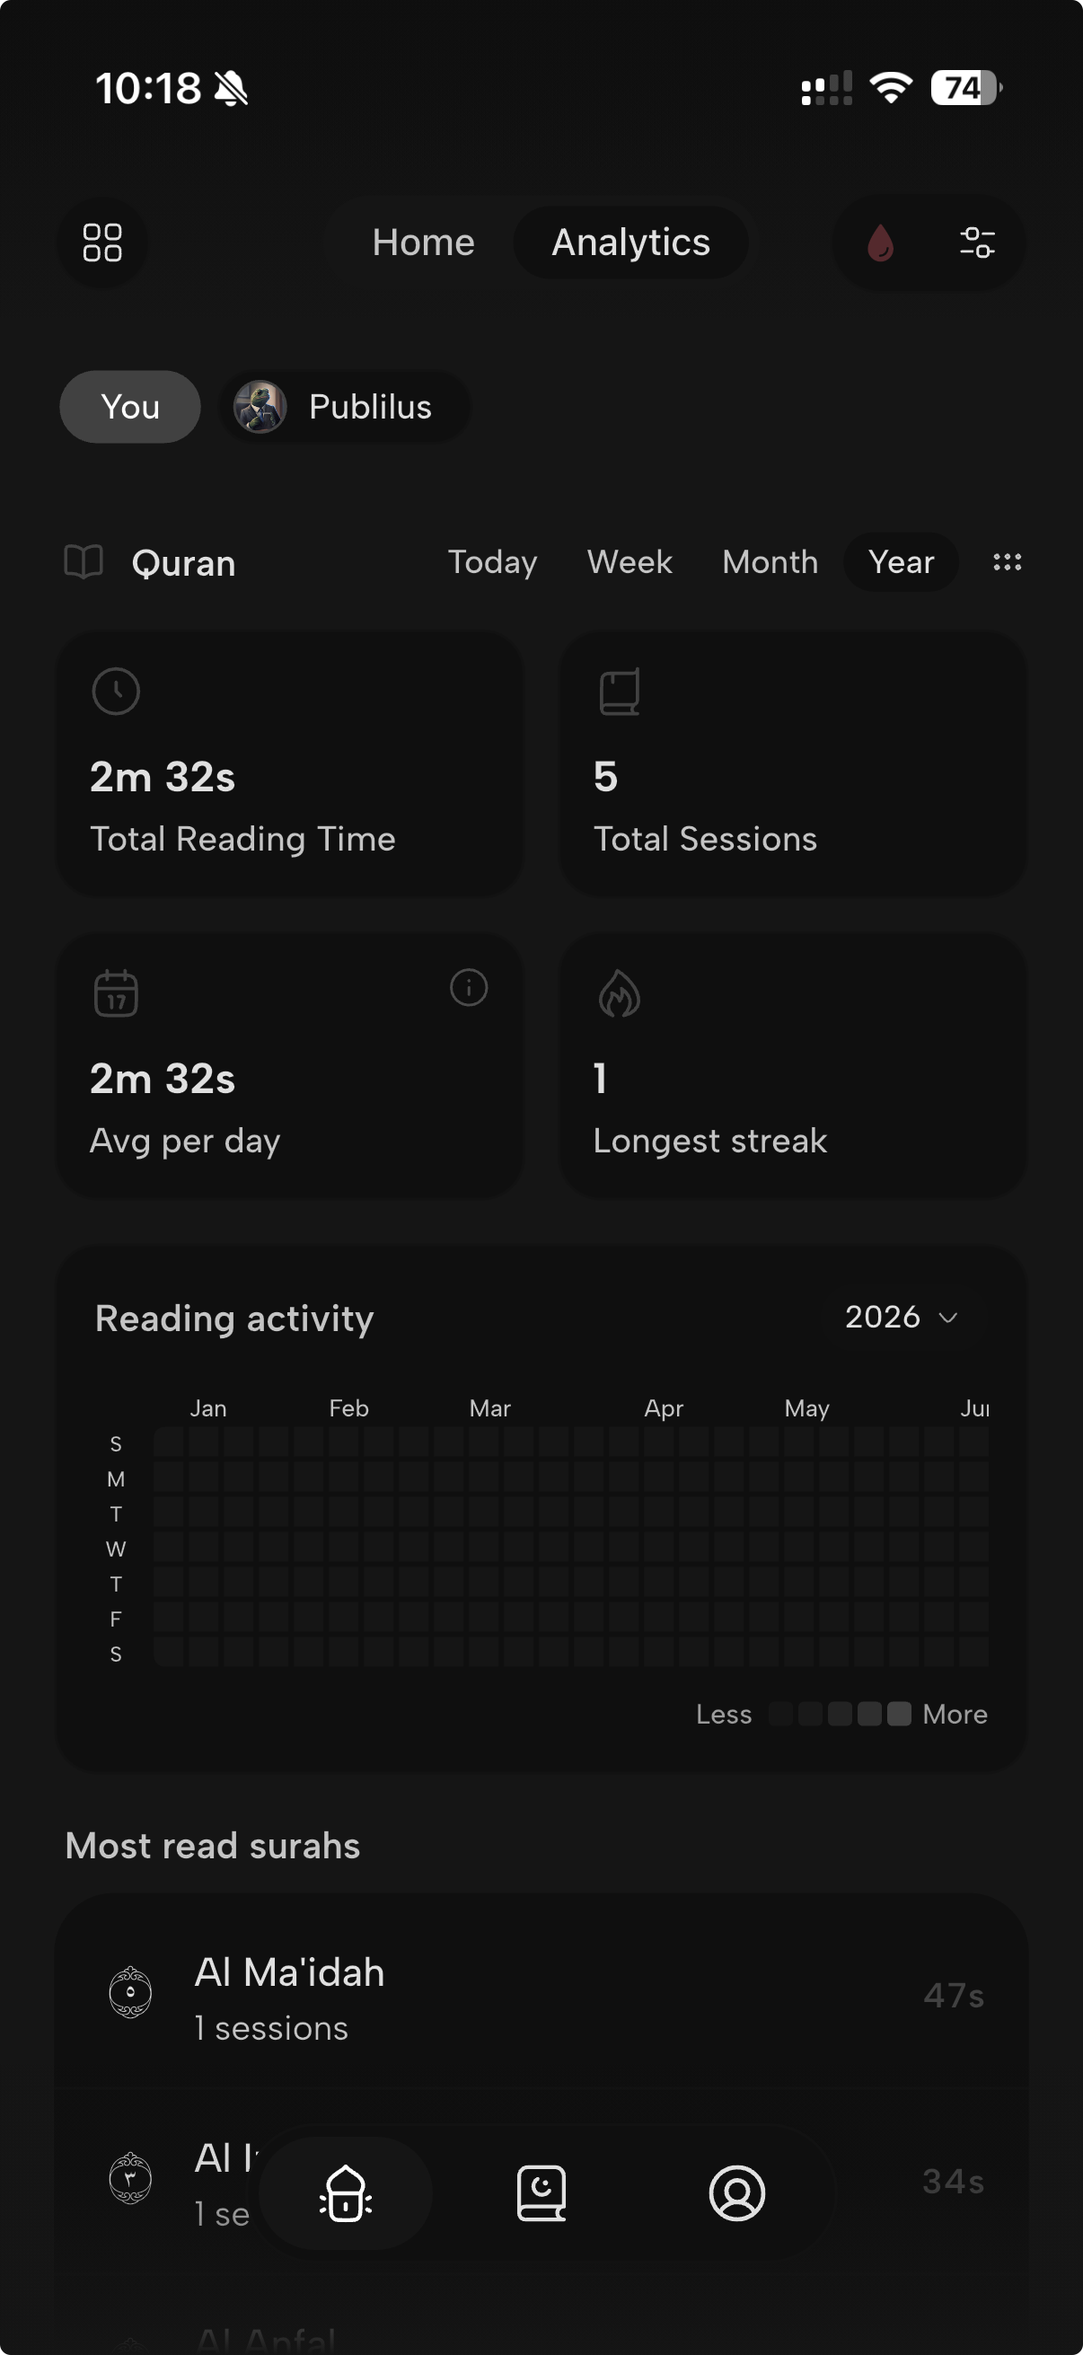
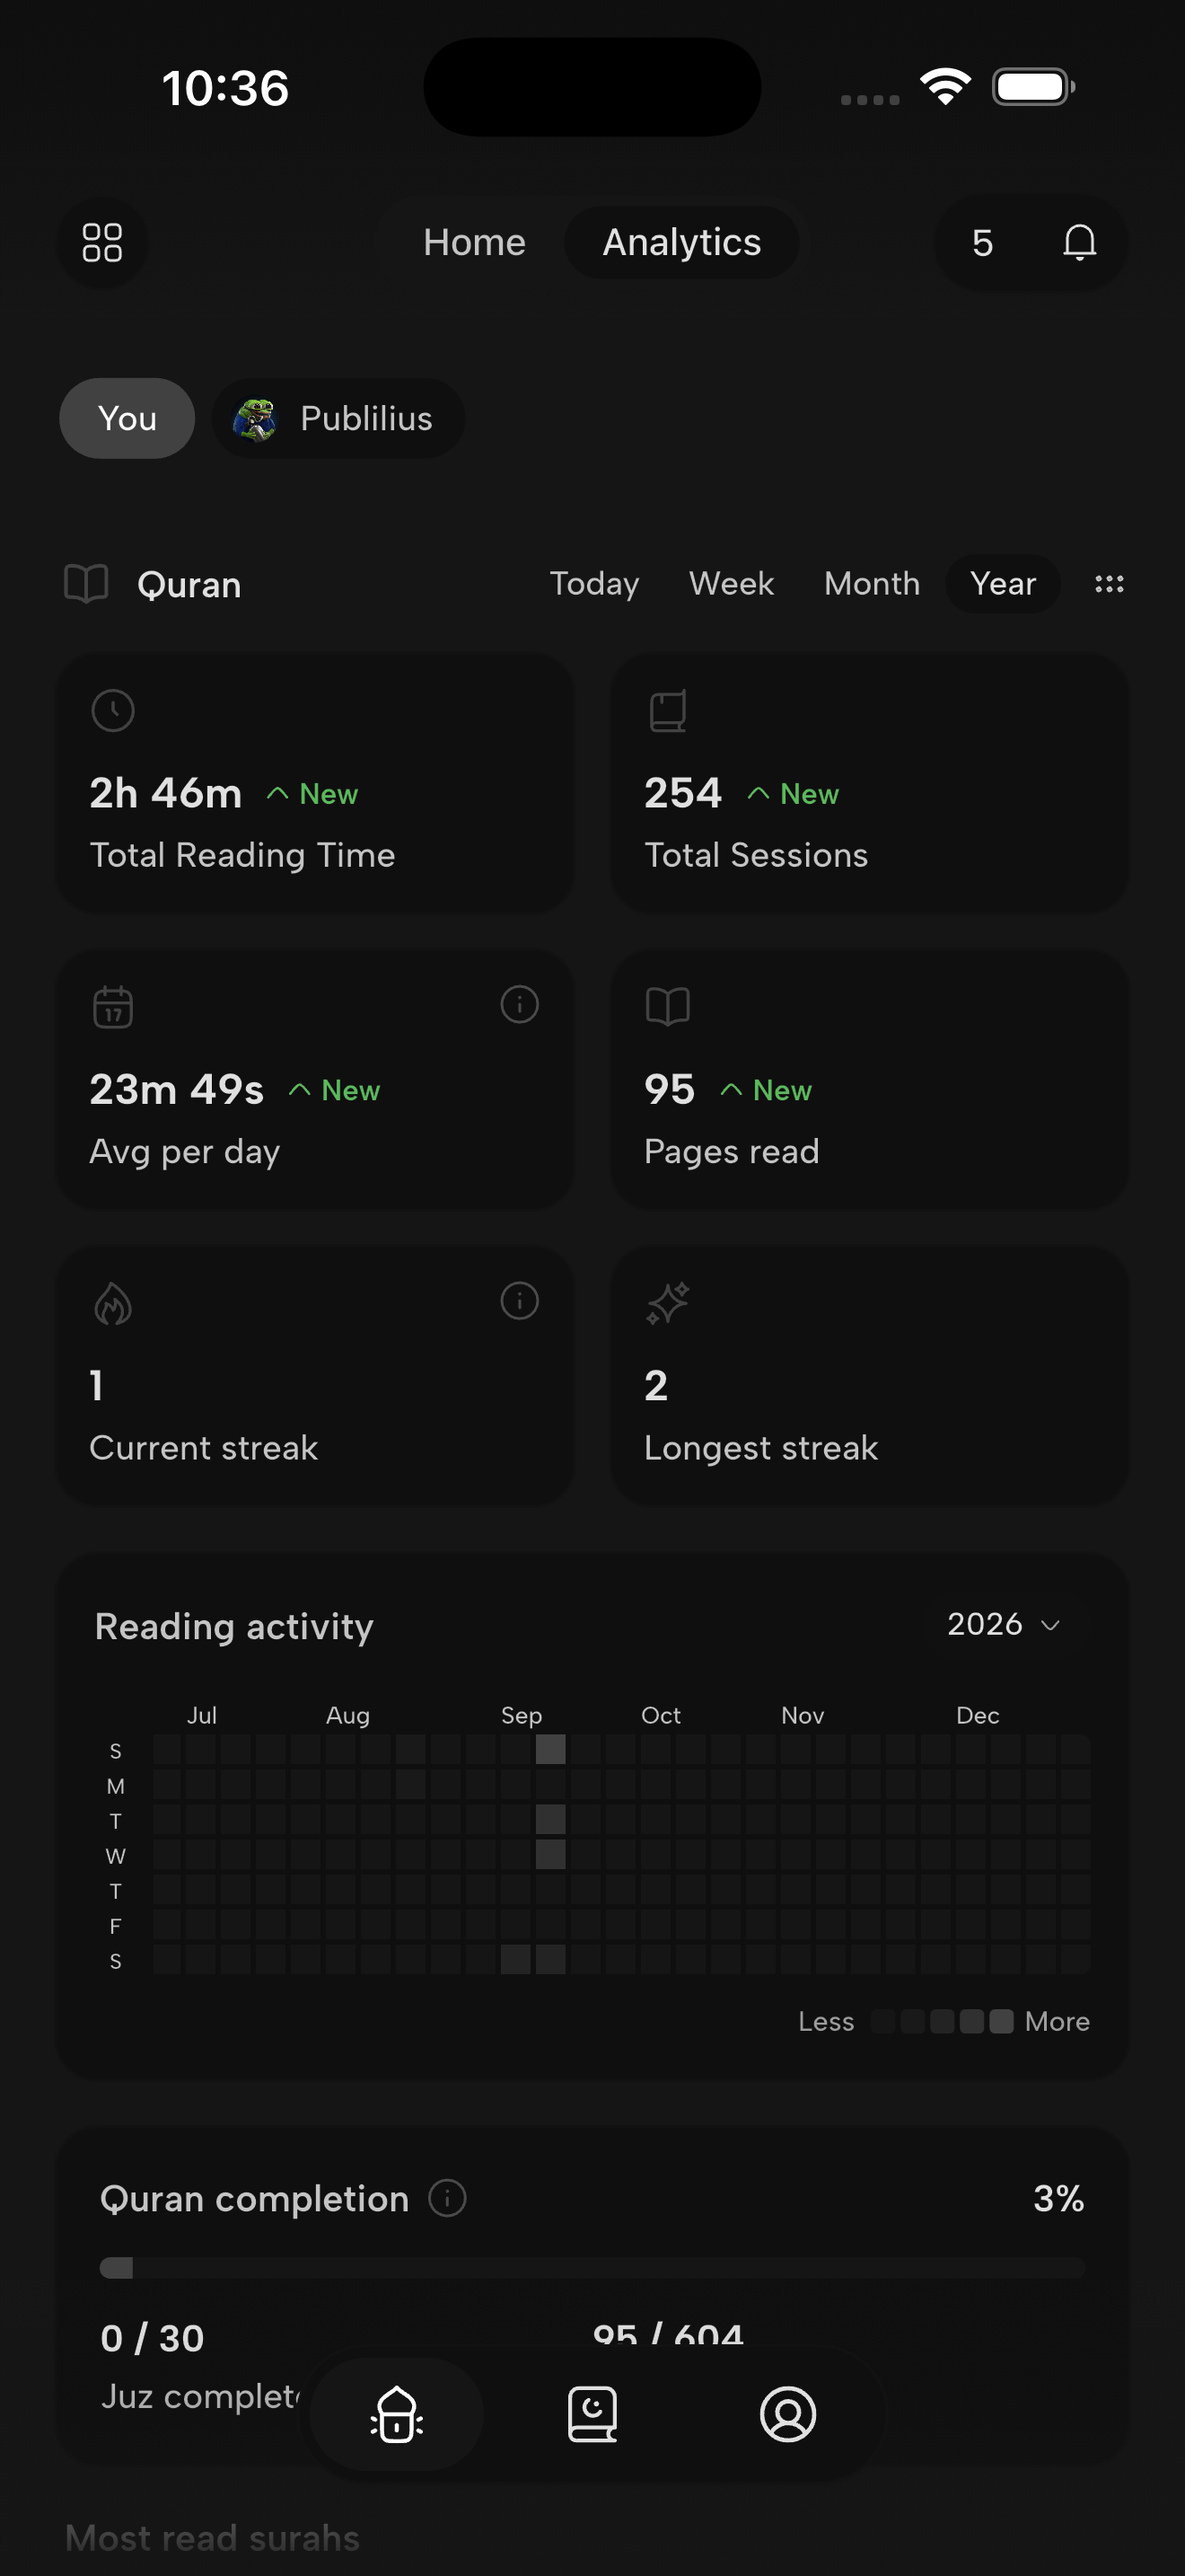
update screenshot images

diff --git a/src/components/Testimonials.tsx b/src/components/Testimonials.tsx
@@ -1,28 +1,29 @@
+import { useTheme } from '../lib/theme-context'
+
 const TESTIMONIALS = [
   {
     name: 'Aisyah R.',
     role: 'Kuala Lumpur, MY',
     quote:
-      'The prayer arc on the home screen is genius — I always know exactly how much time is left for the next salah at a glance.',
-    avatar: 'https://i.pravatar.cc/80?img=47',
+      'The prayer times are exact — Qawwam uses the official JAKIM timetable for my area, so every salah starts to the minute. It is the most reliable app I have used.',
   },
   {
     name: 'Muhammad F.',
     role: 'Singapore, SG',
     quote:
       'Linking with my siblings changed everything. We poke each other when one of us misses a prayer, and sharing our progress keeps us accountable.',
-    avatar: 'https://i.pravatar.cc/80?img=68',
   },
   {
     name: 'Nurul H.',
     role: 'Jakarta, ID',
     quote:
-      'I use the tasbih and daily duas every single day. Having everything — prayers, Qur\'an, duas — in one clean app is a blessing.',
-    avatar: 'https://i.pravatar.cc/80?img=45',
+      'The Qur\'an reader is stunning — tajweed colouring, translation and recitation in one place, and I can jump to any ayah just by reciting it.',
   },
 ]
 
 export function Testimonials() {
+  const { theme } = useTheme()
+
   return (
     <section id="testimonials" className="scroll-mt-24 py-20 sm:py-24">
       <div className="mx-auto max-w-6xl px-5">
@@ -53,10 +54,10 @@ export function Testimonials() {
               </blockquote>
               <figcaption className="mt-6 flex items-center gap-3 border-t border-border pt-5 dark:border-dark-border">
                 <img
-                  src={t.avatar}
+                  src={`/icons/${theme}-default-pfp.png`}
                   alt={`${t.name} avatar`}
                   loading="lazy"
-                  className="h-10 w-10 rounded-full object-cover ring-2 ring-primary/20"
+                  className="h-10 w-10 rounded-full object-cover"
                 />
                 <div>
                   <p className="text-sm font-bold">{t.name}</p>

diff --git a/src/components/ScreenshotShowcase.tsx b/src/components/ScreenshotShowcase.tsx
@@ -2,13 +2,20 @@ import { PhoneFrame } from "./PhoneFrame";
 
 const SCREENSHOTS = [
   { name: "home", label: "Home" },
-  { name: "account_link", label: "Linked Accounts" },
-  { name: "account_link_analytic", label: "Shared Insights" },
+  { name: "prayer_guide", label: "Prayer Guide" },
   { name: "quran_1", label: "Qur'an" },
   { name: "quran_2", label: "Qur'an reader" },
-  { name: "qiblat", label: "Qiblat" },
+  { name: "quran_voice_search", label: "Voice Search" },
+  { name: "quran_notes", label: "Qur'an Notes" },
+  { name: "dua", label: "Duas" },
   { name: "tasbih", label: "Tasbih" },
+  { name: "qiblat", label: "Qiblat" },
+  { name: "prophets", label: "Prophets" },
   { name: "analytics", label: "Analytics" },
+  { name: "account_link", label: "Linked Accounts" },
+  { name: "account_link_setting", label: "Sharing Controls" },
+  { name: "poke", label: "Pokes" },
+  { name: "account_link_analytic", label: "Shared Insights" },
 ];
 
 export function ScreenshotShowcase() {
